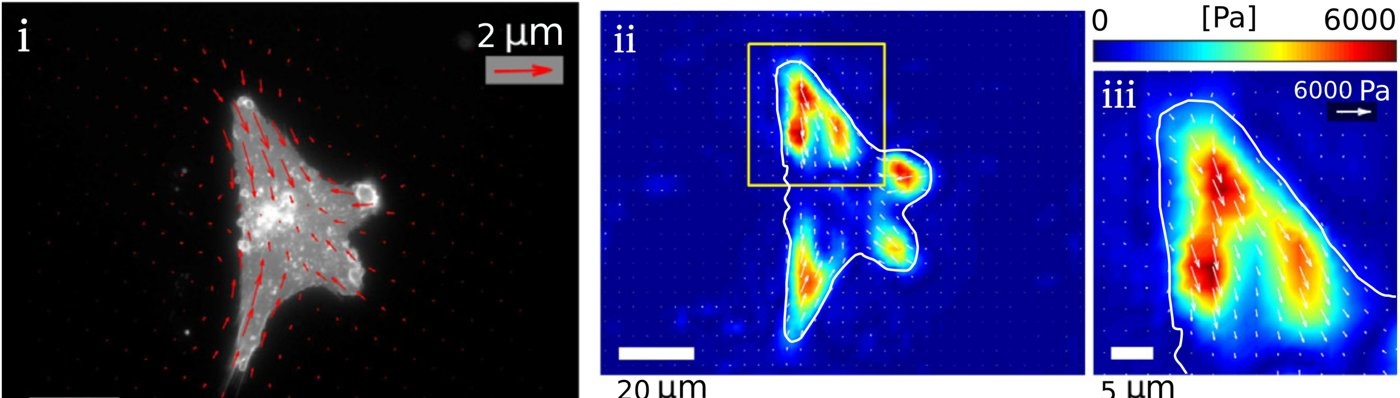
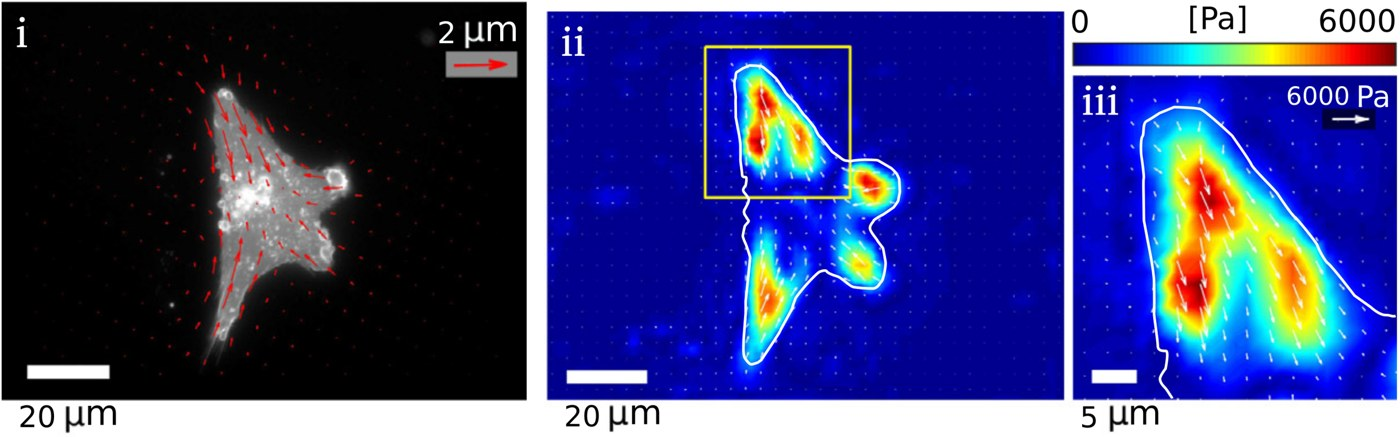
Research slider: TFM image with complete scale-bar labels

diff --git a/index.html b/index.html
@@ -301,7 +301,7 @@
           <div class="rs-track" tabindex="0">
 
             <article class="rs-slide" aria-label="1 of 3">
-              <div class="rs-media"><img src="/img/research/tfm.jpg" alt="Cell on a soft gel with measured displacements, and the reconstructed traction force map" loading="lazy"></div>
+              <div class="rs-media"><img src="/img/research/tfm.jpg?v=2" alt="Cell on a soft gel with measured displacements, and the reconstructed traction force map" loading="lazy"></div>
               <div class="rs-body">
                 <span class="rs-num">01</span>
                 <h3>Traction force microscopy</h3>
